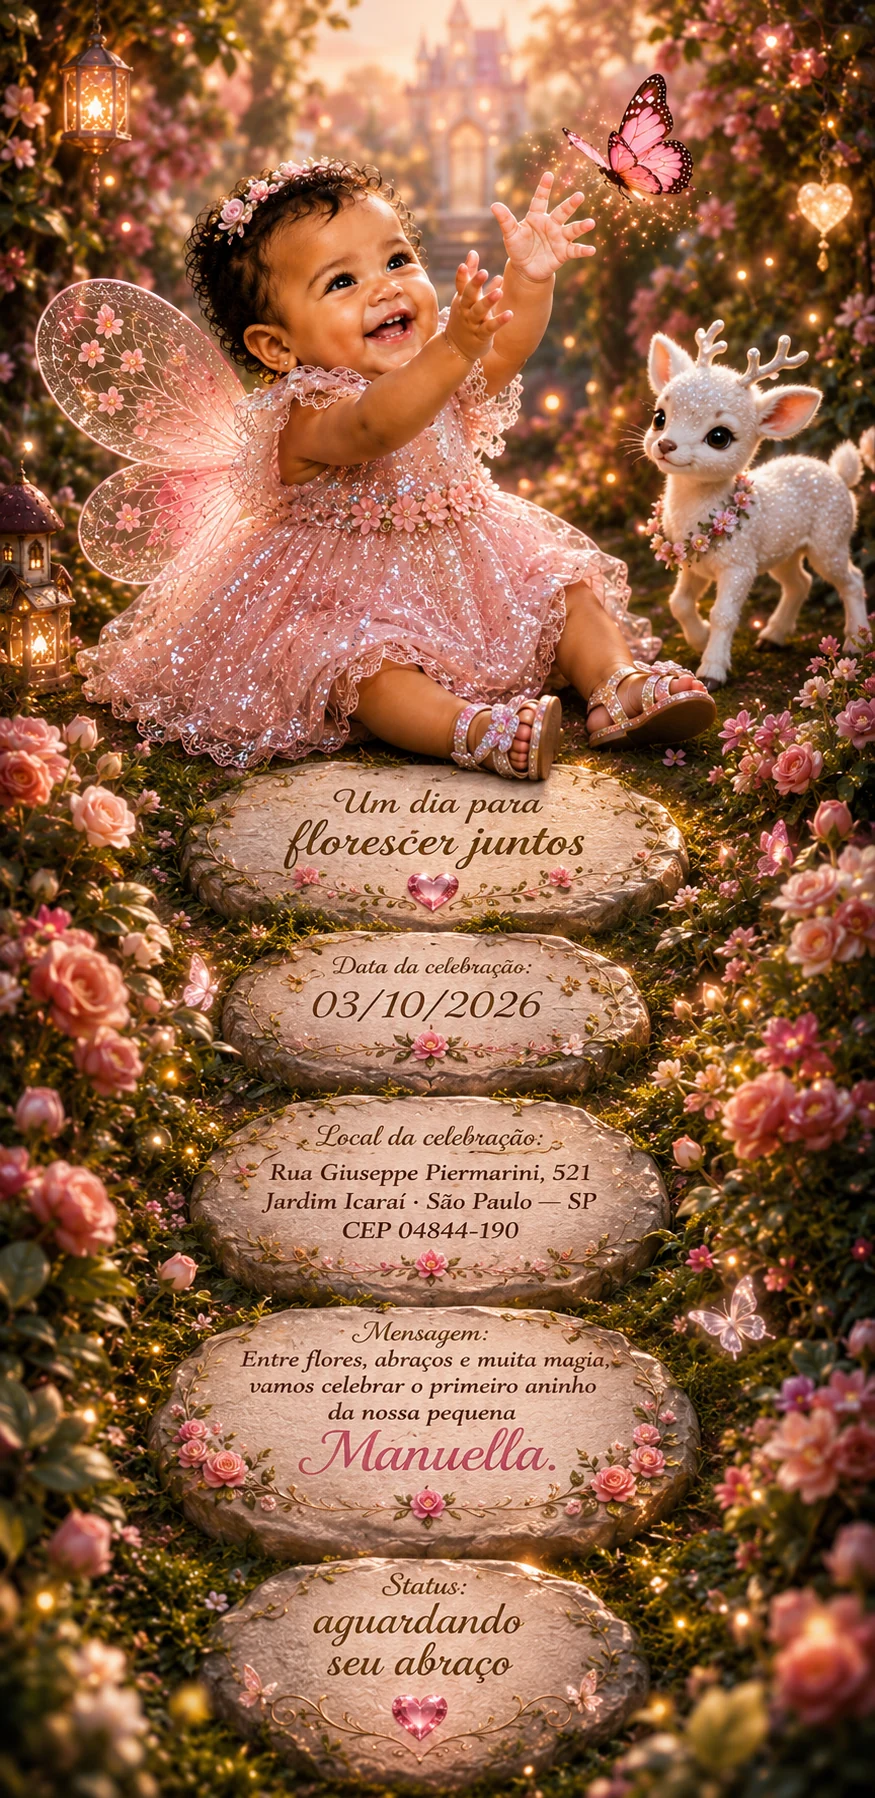
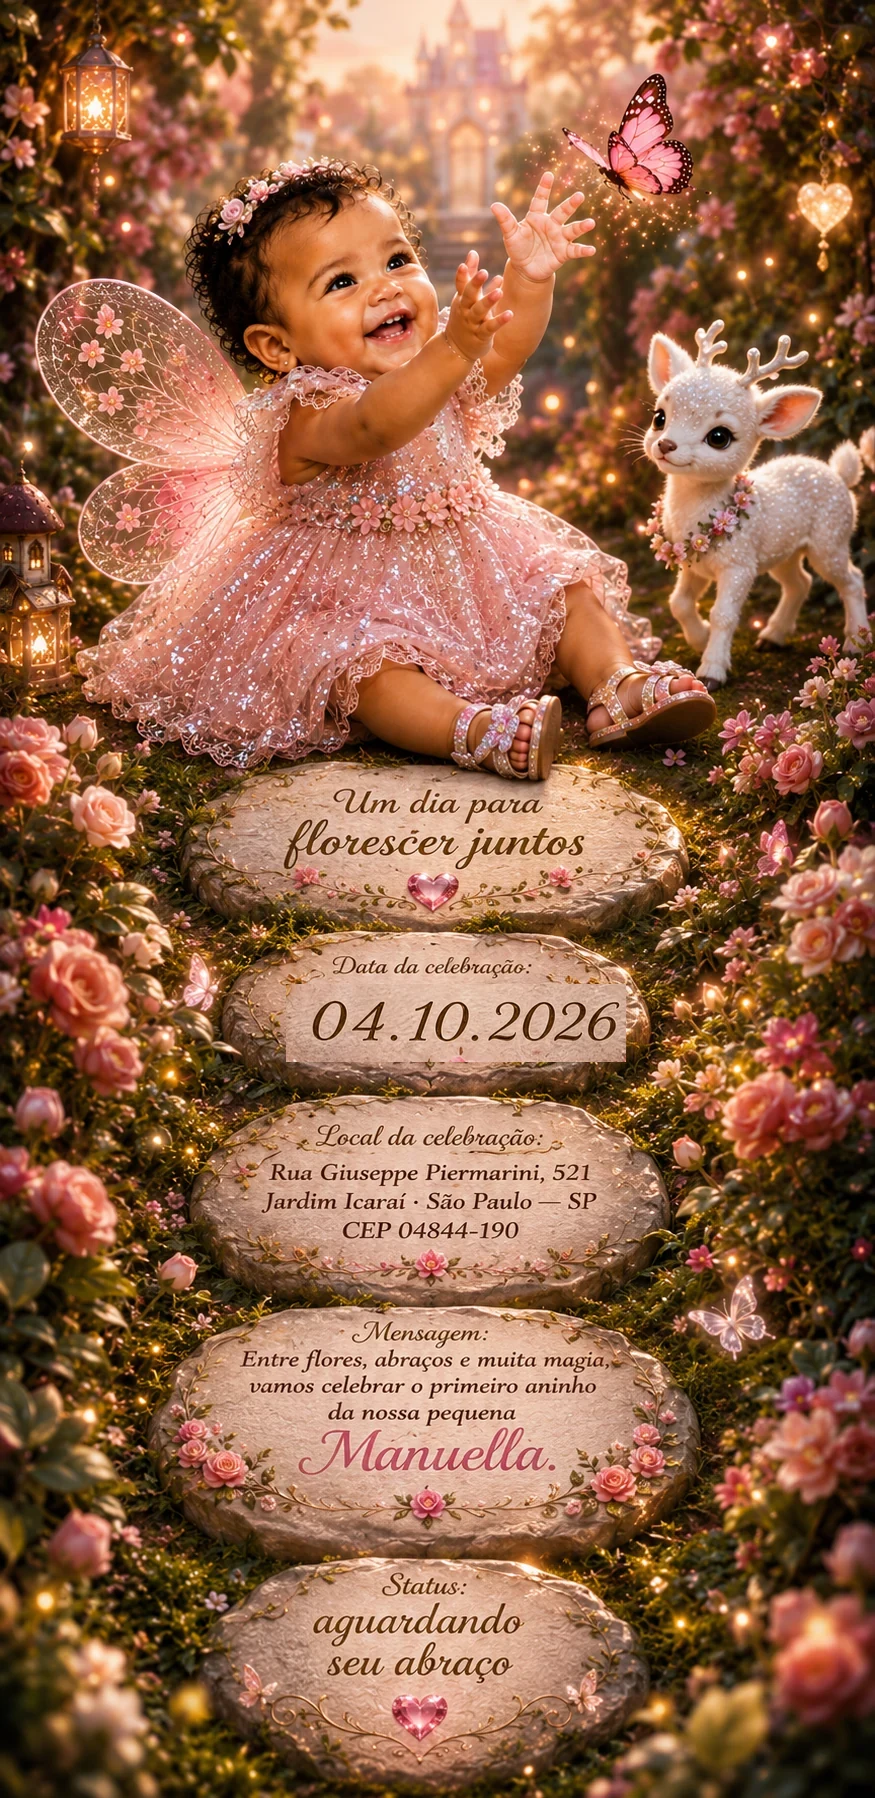
Adiciona zoom por gesto de pinca nas imagens

Changed region(s): [[0.3086, 0.5295, 0.7406, 0.5918]]

diff --git a/client/src/components/PinchZoomImage.tsx b/client/src/components/PinchZoomImage.tsx
@@ -1,0 +1,149 @@
+// Direção visual: Jardim de Código em Aquarela — interação delicada, acessível e sem interferir na leitura do convite.
+import { useRef, useState } from "react";
+import type { KeyboardEvent as ReactKeyboardEvent, MouseEvent as ReactMouseEvent, PointerEvent as ReactPointerEvent, WheelEvent as ReactWheelEvent } from "react";
+
+type Transform = { scale: number; x: number; y: number };
+type Point = { x: number; y: number };
+
+type PinchZoomImageProps = {
+  src: string;
+  alt: string;
+  className?: string;
+  surfaceClassName?: string;
+  maxScale?: number;
+  ariaLabel?: string;
+};
+
+const MIN_SCALE = 1;
+const DEFAULT_MAX_SCALE = 3.25;
+
+function distance(a: Point, b: Point) {
+  return Math.hypot(a.x - b.x, a.y - b.y);
+}
+
+function clamp(value: number, min: number, max: number) {
+  return Math.min(Math.max(value, min), max);
+}
+
+export function PinchZoomImage({
+  src,
+  alt,
+  className = "",
+  surfaceClassName = "",
+  maxScale = DEFAULT_MAX_SCALE,
+  ariaLabel,
+}: PinchZoomImageProps) {
+  const surfaceRef = useRef<HTMLDivElement | null>(null);
+  const pointersRef = useRef(new Map<number, Point>());
+  const transformRef = useRef<Transform>({ scale: MIN_SCALE, x: 0, y: 0 });
+  const dragRef = useRef({ active: false, lastX: 0, lastY: 0 });
+  const pinchRef = useRef({ startDistance: 0, startScale: MIN_SCALE });
+  const [transform, setTransform] = useState<Transform>(transformRef.current);
+
+  const boundedTransform = (next: Transform): Transform => {
+    const rect = surfaceRef.current?.getBoundingClientRect();
+    if (!rect) return { ...next, x: 0, y: 0 };
+    const maxX = Math.max(0, ((next.scale - 1) * rect.width) / 2);
+    const maxY = Math.max(0, ((next.scale - 1) * rect.height) / 2);
+    return {
+      scale: clamp(next.scale, MIN_SCALE, maxScale),
+      x: clamp(next.x, -maxX, maxX),
+      y: clamp(next.y, -maxY, maxY),
+    };
+  };
+
+  const applyTransform = (next: Transform) => {
+    const safe = boundedTransform(next);
+    transformRef.current = safe;
+    setTransform(safe);
+  };
+
+  const resetZoom = () => applyTransform({ scale: MIN_SCALE, x: 0, y: 0 });
+
+  const zoomBy = (factor: number) => {
+    const current = transformRef.current;
+    applyTransform({ scale: current.scale * factor, x: current.x, y: current.y });
+  };
+
+  const handlePointerDown = (event: ReactPointerEvent<HTMLDivElement>) => {
+    event.currentTarget.setPointerCapture(event.pointerId);
+    pointersRef.current.set(event.pointerId, { x: event.clientX, y: event.clientY });
+
+    if (pointersRef.current.size === 1) {
+      dragRef.current = { active: transformRef.current.scale > MIN_SCALE, lastX: event.clientX, lastY: event.clientY };
+    } else if (pointersRef.current.size === 2) {
+      const points = Array.from(pointersRef.current.values());
+      pinchRef.current = { startDistance: distance(points[0], points[1]), startScale: transformRef.current.scale };
+      dragRef.current.active = false;
+    }
+  };
+
+  const handlePointerMove = (event: ReactPointerEvent<HTMLDivElement>) => {
+    const previous = pointersRef.current.get(event.pointerId);
+    if (!previous) return;
+    pointersRef.current.set(event.pointerId, { x: event.clientX, y: event.clientY });
+
+    if (pointersRef.current.size >= 2 && pinchRef.current.startDistance > 0) {
+      const points = Array.from(pointersRef.current.values());
+      const nextScale = pinchRef.current.startScale * (distance(points[0], points[1]) / pinchRef.current.startDistance);
+      applyTransform({ ...transformRef.current, scale: nextScale });
+      event.preventDefault();
+      return;
+    }
+
+    if (dragRef.current.active && transformRef.current.scale > MIN_SCALE) {
+      const dx = event.clientX - previous.x;
+      const dy = event.clientY - previous.y;
+      applyTransform({ ...transformRef.current, x: transformRef.current.x + dx, y: transformRef.current.y + dy });
+      event.preventDefault();
+    }
+  };
+
+  const handlePointerEnd = (event: ReactPointerEvent<HTMLDivElement>) => {
+    pointersRef.current.delete(event.pointerId);
+    if (event.currentTarget.hasPointerCapture(event.pointerId)) event.currentTarget.releasePointerCapture(event.pointerId);
+    if (pointersRef.current.size < 2) pinchRef.current.startDistance = 0;
+    if (pointersRef.current.size === 0) dragRef.current.active = false;
+  };
+
+  const handleWheel = (event: ReactWheelEvent<HTMLDivElement>) => {
+    if (!event.ctrlKey && !event.metaKey && Math.abs(event.deltaY) < 4) return;
+    event.preventDefault();
+    zoomBy(event.deltaY < 0 ? 1.12 : 0.89);
+  };
+
+  const handleDoubleClick = (event: ReactMouseEvent<HTMLDivElement>) => {
+    event.preventDefault();
+    if (transformRef.current.scale > MIN_SCALE) resetZoom();
+    else applyTransform({ scale: 2, x: 0, y: 0 });
+  };
+
+  const handleKeyDown = (event: ReactKeyboardEvent<HTMLDivElement>) => {
+    if (event.key === "+" || event.key === "=") { event.preventDefault(); zoomBy(1.18); }
+    if (event.key === "-") { event.preventDefault(); zoomBy(0.85); }
+    if (event.key === "0" || event.key === "Escape") { event.preventDefault(); resetZoom(); }
+  };
+
+  return (
+    <div
+      ref={surfaceRef}
+      className={`pinch-zoom-surface ${surfaceClassName}`.trim()}
+      role="img"
+      aria-label={ariaLabel ?? alt}
+      tabIndex={0}
+      onPointerDown={handlePointerDown}
+      onPointerMove={handlePointerMove}
+      onPointerUp={handlePointerEnd}
+      onPointerCancel={handlePointerEnd}
+      onWheel={handleWheel}
+      onDoubleClick={handleDoubleClick}
+      onKeyDown={handleKeyDown}
+    >
+      <div className="pinch-zoom-content" style={{ transform: `translate3d(${transform.x}px, ${transform.y}px, 0) scale(${transform.scale})` }}>
+        <img className={className} src={src} alt={alt} draggable={false} />
+      </div>
+      <span className="pinch-zoom-hint" aria-hidden="true">pinça para ampliar</span>
+      <span className="sr-only">Use dois dedos para ampliar ou reduzir. No computador, use duplo clique, roda do mouse ou as teclas mais, menos e zero.</span>
+    </div>
+  );
+}

diff --git a/client/src/index.css b/client/src/index.css
@@ -141,8 +141,25 @@ h2 { font-size: clamp(3.1rem, 6vw, 5.5rem); }
 @media (prefers-reduced-motion: reduce) { .garden-splash, .splash-button, .splash-butterfly, .splash-petal, .music-toggle.is-playing > span { animation: none; } }
 
 
+/* Zoom por pinça no Jardim de Código em Aquarela: ampliar sem cortar, arrastar sem bloquear CTAs e manter foco visível. */
+.pinch-zoom-surface { position: relative; width: 100%; height: 100%; overflow: hidden; touch-action: none; cursor: zoom-in; outline: none; }
+.pinch-zoom-surface:active { cursor: grabbing; }
+.pinch-zoom-surface:focus-visible { outline: 3px solid var(--mint); outline-offset: -3px; }
+.pinch-zoom-content { width: 100%; height: 100%; transform-origin: center center; will-change: transform; transition: transform .16s cubic-bezier(.23,1,.32,1); }
+.pinch-zoom-content > img { user-select: none; -webkit-user-drag: none; }
+.pinch-zoom-hint { position: absolute; left: 50%; bottom: 14px; z-index: 4; transform: translateX(-50%); padding: 6px 10px; border: 1px solid rgba(255,250,241,.45); border-radius: 999px; color: rgba(77,58,74,.82); background: rgba(255,250,241,.76); box-shadow: 0 5px 16px rgba(83,62,70,.12); font-family: 'Space Mono', monospace; font-size: .58rem; letter-spacing: .02em; opacity: .82; pointer-events: none; transition: opacity .3s ease; }
+.pinch-zoom-surface:hover .pinch-zoom-hint, .pinch-zoom-surface:focus-visible .pinch-zoom-hint { opacity: 1; }
+.splash-cover-zoom { position: absolute; inset: 0; }
+.splash-cover-zoom .pinch-zoom-hint { bottom: 13%; color: rgba(77,58,74,.72); background: rgba(255,250,241,.6); }
+.natural-scene-zoom { position: absolute; inset: 0; z-index: 1; }
+.natural-scene-zoom .pinch-zoom-content { position: relative; }
+.second-page-art-zoom { position: absolute; inset: 0; z-index: 1; }
+.second-page-art-zoom .pinch-zoom-hint { bottom: 18px; }
+
 /* Capa enviada pelo usuário: a arte completa é preservada em proporção vertical; a CTA original recebe uma área de toque funcional sem duplicar texto. */
 .splash-cover-wrap { position: relative; width: min(100%, 560px, calc(92vh * .75)); aspect-ratio: 3 / 4; display: grid; place-items: center; overflow: hidden; border-radius: 2.4rem 1rem 2.4rem 1rem; box-shadow: 0 24px 80px rgba(83,62,70,.2); }
+.splash-cover-zoom .pinch-zoom-content, .splash-cover-zoom .splash-cover-image { width: 100%; height: 100%; }
+.splash-cover-zoom .splash-cover-image { object-fit: cover; object-position: center; }
 .splash-cover-image { display: block; width: 100%; height: 100%; object-fit: cover; object-position: center; }
 .splash-cover-button { position: absolute; left: 22%; right: 22%; bottom: 5.6%; height: 8.5%; border: 0; border-radius: 999px; background: transparent; cursor: pointer; }
 .splash-cover-button:hover { box-shadow: 0 0 0 8px rgba(255,250,241,.18); }
@@ -173,7 +190,8 @@ h2 { font-size: clamp(3.1rem, 6vw, 5.5rem); }
 
 /* Segunda página em arte integral: a imagem enviada contém todas as informações; somente os controles interativos ficam sobrepostos. */
 .image-only-page { position: relative; display: block; min-height: 100svh; padding: 0; overflow: hidden; background: #ead0bf; }
-.second-page-full-art { display: block; width: 100%; height: 100svh; min-height: 640px; object-fit: contain; object-position: center; background: #ead0bf; }
+.second-page-full-art { display: block; width: 100%; height: 100%; min-height: 640px; object-fit: contain; object-position: center; background: #ead0bf; }
+.second-page-art-zoom .pinch-zoom-content { display: grid; place-items: center; }
 .image-overlay-button { position: absolute; z-index: 3; margin: 0; }
 .image-back-button { top: clamp(18px, 4vw, 42px); left: 50%; transform: translateX(-50%); }
 .image-back-button:hover { transform: translateX(-50%) translateY(-3px); }

diff --git a/client/src/pages/Home.tsx b/client/src/pages/Home.tsx
@@ -1,5 +1,6 @@
 /* Jardim Encantado: composição editorial suave, detalhes de código afetivos e áudio contínuo liberado por interação. */
 import { useEffect, useMemo, useRef, useState } from "react";
+import { PinchZoomImage } from "@/components/PinchZoomImage";
 
 const WHATSAPP_NUMBER = "5511944465965";
 const RSVP_MESSAGE = "Olá! Quero confirmar presença no aniversário de 1 ano da Manuella.";
@@ -83,7 +84,7 @@ export default function Home() {
           <div className="splash-petal petal-a">✿</div>
           <div className="splash-petal petal-b">❀</div>
           <div className="splash-cover-wrap">
-            <img className="splash-cover-image" src="/assets/capa-abertura-mannuella-preenchida.webp" alt="Capa do convite: Um jardim encantado espera por você, com Manuella como fadinha em um jardim florido." />
+            <PinchZoomImage surfaceClassName="splash-cover-zoom" className="splash-cover-image" src="/assets/capa-abertura-mannuella-preenchida.webp" alt="Capa do convite: Um jardim encantado espera por você, com Manuella como fadinha em um jardim florido." ariaLabel="Capa do convite. Use pinça para ampliar a imagem." />
             <button className="splash-cover-button" type="button" onClick={startExperience} aria-label="Toque para abrir o convite e iniciar a música" />
           </div>
         </div>
@@ -94,7 +95,7 @@ export default function Home() {
           <>
             <section className="hero-panel first-page-panel">
               <div className="hero-art natural-scene" aria-label="Manuella alcançando uma borboleta em um jardim encantado">
-                <img className="natural-scene-image" src="/assets/mannuella-primeira-pagina-outpainting.webp" alt="Manuella inteira como fadinha com asas completas alcançando uma borboleta no Jardim Encantado" />
+                <PinchZoomImage surfaceClassName="natural-scene-zoom" className="natural-scene-image" src="/assets/mannuella-primeira-pagina-outpainting.webp" alt="Manuella inteira como fadinha com asas completas alcançando uma borboleta no Jardim Encantado" ariaLabel="Imagem principal do Jardim Encantado. Use pinça para ampliar." />
                 <span className="scene-glint glint-one">✦</span><span className="scene-glint glint-two">✧</span><span className="scene-glint glint-three">✦</span>
               </div>
               <div className="hero-copy"><span className="brand-seal" aria-label="1 aninho"><span className="seal-flower">✿</span><strong>1</strong><small>aninho</small></span>
@@ -111,7 +112,7 @@ export default function Home() {
           </>
         ) : (
           <section className="information-page image-only-page" aria-label="Informações da celebração em imagem">
-            <img className="second-page-full-art" src="/assets/segunda-pagina-mannuella-completa.webp" alt="Manuella em um Jardim Encantado com a data, endereço e mensagem da celebração" />
+            <PinchZoomImage surfaceClassName="second-page-art-zoom" className="second-page-full-art" src="/assets/segunda-pagina-mannuella-completa.webp" alt="Manuella em um Jardim Encantado com a data, endereço e mensagem da celebração" ariaLabel="Informações da celebração. Use pinça para ampliar a imagem." />
             <button className="back-button image-overlay-button image-back-button" type="button" onClick={() => { setMagicBurst(false); setPage(1); }}><span className="return-garden-mark" aria-hidden="true">✿</span><span>← voltar ao convite</span></button>
             <button className="next-button rsvp-button image-overlay-button image-rsvp-button" type="button" onClick={handleConfirm}>{confirmed ? "Presença compilada ✓" : "Confirmar presença no WhatsApp ↗"}</button>
           </section>

diff --git a/date-edit-notes.md b/date-edit-notes.md
@@ -1,0 +1,9 @@
+# Edição da data — constatações visuais
+
+A arte original da segunda página mede 875 × 1798 px e tem uma composição vertical muito alta, incluindo a pedra inferior de status. A data antiga `03/10/2026` está centralizada na pedra sob o rótulo `Data da celebração:`. Para evitar que uma edição de proporção 2:3 corte a parte inferior da página, a correção será aplicada de forma localizada na região aproximada x=175..700, y=895..1145, mantendo o restante da imagem original intacto. O recorte de trabalho contém também uma pequena faixa da pedra superior e da pedra de local para permitir uma transição natural. A edição gerada contém a data exata `04/10/2026` e o rótulo correto, preservando o estilo visual da pedra.
+
+A recomposição ampla preservou a página inteira, mas deixou um retângulo perceptível sobre a pedra. A versão localizada gerada mostra a grafia `04/10/2026` com boa legibilidade, porém a aplicação final deve limitar a intervenção à área dos dígitos para evitar qualquer retângulo visível. O restante da pedra, o rótulo, o local, a mensagem e o status devem continuar vindo da arte original.
+
+A inspeção da arte final mostrou que a tentativa de substituir somente o primeiro dígito não alterou a grafia visível de forma confiável: a ampliação ainda aparenta `03/10/2026`. Esta versão não será publicada. É necessário refazer a correção com um recorte de dígito mais bem alinhado ou com uma camada de edição localizada controlada antes do build.
+
+A faixa ampliada da edição gerada confirmou que o dígito `4` está aproximadamente na região x=650..800, y=500..735 do arquivo gerado. A tentativa anterior usou a região errada, que continha outro caractere; o script foi corrigido e a arte foi recomposta novamente a partir do original intacto.

diff --git a/todo.md b/todo.md
@@ -185,3 +185,36 @@ Validação externa: a branch main do GitHub contém Home.tsx com referências /
 - [ ] Garantir que a foto correta da Manuella seja usada na imagem da prévia.
 - [ ] Validar os metadados, o build e publicar a atualização.
 - [ ] Sincronizar a alteração com o repositório GitHub.
+
+# Tarefas — Alteração da data para 04/10/2026
+
+- [ ] Localizar todas as ocorrências de 03/10/2026 no código, metadados e artes.
+- [ ] Atualizar a data visível para 04/10/2026, incluindo a imagem da segunda página.
+- [ ] Validar que 04/10/2026 cai em um domingo.
+- [ ] Testar build, publicar e sincronizar com o GitHub.
+
+# Tarefas — Nova trilha orquestral original
+
+- [ ] Criar uma trilha instrumental orquestral original com clima romântico e encantado.
+- [ ] Substituir a música de fundo mantendo a narração e o ducking.
+- [ ] Validar áudio, build, mobile, publicar e sincronizar com o GitHub.
+
+# Tarefas — Data exibida na segunda página
+
+- [ ] Atualizar a data visível da segunda página para `04.10.2026`.
+- [ ] Preservar a arte integral, os demais textos e os controles interativos.
+- [ ] Validar visualmente junto com a nova trilha orquestral e publicar.
+
+# Tarefas — Áudio reutilizável no GitHub
+
+- [ ] Validar a trilha orquestral original e converter para MP3.
+- [ ] Adicionar o arquivo em uma pasta de áudio reutilizável no repositório.
+- [ ] Documentar o nome e o caminho direto do arquivo.
+- [ ] Enviar a atualização para a branch main e confirmar o link.
+
+# Tarefas — Zoom por gesto de pinça
+
+- [x] Revisar imagens, containers e estilos atuais.
+- [x] Implementar pinça, arraste, zoom por clique/teclado e reset acessível.
+- [x] Integrar nas imagens do convite sem bloquear os botões.
+- [x] Validar mobile, desktop e build; publicar no GitHub.

diff --git a/validation-notes.md b/validation-notes.md
@@ -24,3 +24,11 @@ O slug do projeto e nomes históricos de arquivos ainda contêm `mannuela` por c
 - A capa de abertura deve preservar a composição original e alterar somente a grafia incorporada.
 - A segunda página permanece uma imagem integral com apenas os controles interativos sobrepostos.
 
+
+## Auditoria do zoom por pinça — 22/08/2026
+
+A capa de abertura continua visível em mobile e mantém o botão de toque funcional. O aviso discreto `pinça para ampliar` aparece dentro das imagens. Após abrir o convite, a imagem principal recebe o mesmo componente de zoom, enquanto o CTA de informações permanece fora da área da imagem. A segunda página também passou a renderizar o aviso de zoom; seus botões continuam com camada superior, separados da superfície interativa da imagem.
+
+O componente implementa Pointer Events para dois dedos, arraste com zoom, duplo clique, roda do mouse, teclado (`+`, `-`, `0`, `Escape`) e foco acessível. A validação de gesto multi-touch em dispositivo físico ainda deve ser feita em um celular real, pois o preview automatizado não simula duas pontas de toque simultâneas.
+
+O teste automatizado no preview confirmou que o foco entra na superfície de zoom, a tecla `=` aumenta a escala para 1.3924 e os botões `← voltar ao convite`, `Confirmar presença no WhatsApp ↗` e o controle de música continuam presentes no DOM. A primeira leitura ocorreu antes do próximo render; após aguardar 120 ms, a transformação foi confirmada.
